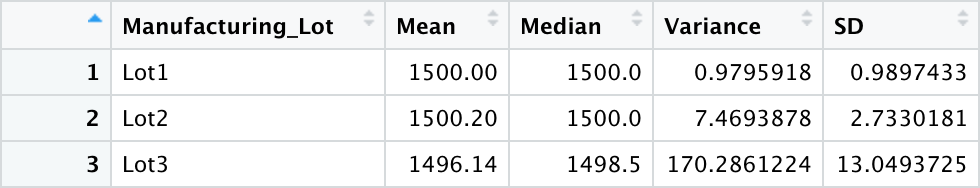
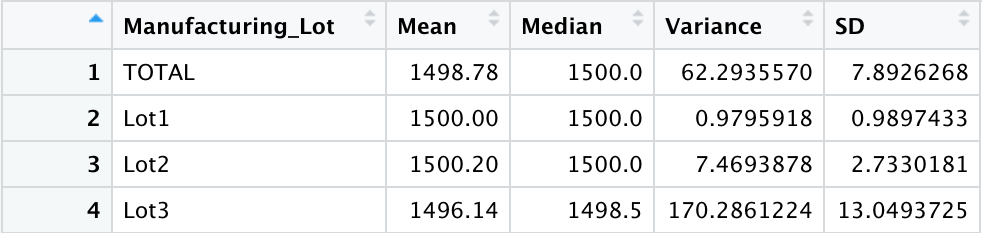
updated code and png for coil analysis

diff --git a/README.md b/README.md
@@ -1,29 +1,25 @@
-# MechaCar_Statistical_Analysis
-R and Statistics **DRAFT**
+# MechaCar Statistical Analysis
+
+Analyst: Stan Misina IDE: RStudio Version 1.4.1717 R: Version 4.1.1
+
+Data Provided: MechaCar_mpg.csv Suspension_Coil.csv
 
 ## Linear Regression to Predict MPG
+
 <img src="static/resources/multi-linear.png" alt="Multi Linear Regression" width="600"/> <br />
-- Multi-linear regression model based on data representing 50 samples of 6 variables. Found significant correlation of vehicle length and ground clearance to effect MPG. There is a minor correlation to MPG with vehicle weight as well, however it does not as fall within standard tolerance.
-<br />
+- Multi-linear regression model based on data representing 50 test vehicles and six data points. Found significant correlation of vehicle length and ground clearance to effect MPG. There is a minor correlation to MPG with vehicle weight as well, however it does not fall within standard tolerance. <br />
 
 ## Summary Statistics on Suspension Coils
+
 <img src="static/resources/coil_analysis.png" alt="Multi Linear Regression" width="600"/> <br />
-- Grouped summary showing the 3 manufacturing lots and consistency results of suspension coil production accross these locations.
-<br />
+- Grouped summary showing the 3 manufacturing lots and consistency results of suspension coil production accross these locations. <br />
 
 ## T-Tests on Suspension Coils
-- DRAFT tbd
+
+-   DRAFT tbd
 
 ## Study Design: MechaCar vs Competition
-Write a short description of a statistical study that can quantify how the MechaCar performs against the competition. In your study design, think critically about what metrics would be of interest to a consumer: for a few examples, cost, city or highway fuel efficiency, horse power, maintenance cost, or safety rating.
-In your description, address the following questions:
-  - What metric or metrics are you going to test?
-  - What is the null hypothesis or alternative hypothesis?
-  - What statistical test would you use to test the hypothesis? And why?
-  - What data is needed to run the statistical test?
-  
-The statistical study design has the following:
-A metric to be tested is mentioned (5 pt)
-A null hypothesis or an alternative hypothesis is described (5 pt)
-A statistical test is described to test the hypothesis (5 pt)
-The data for the statistical test is described (5 pt)
+
+Write a short description of a statistical study that can quantify how the MechaCar performs against the competition. In your study design, think critically about what metrics would be of interest to a consumer: for a few examples, cost, city or highway fuel efficiency, horse power, maintenance cost, or safety rating. In your description, address the following questions: - What metric or metrics are you going to test? - What is the null hypothesis or alternative hypothesis? - What statistical test would you use to test the hypothesis? And why? - What data is needed to run the statistical test?
+
+The statistical study design has the following: A metric to be tested is mentioned (5 pt) A null hypothesis or an alternative hypothesis is described (5 pt) A statistical test is described to test the hypothesis (5 pt) The data for the statistical test is described (5 pt)
